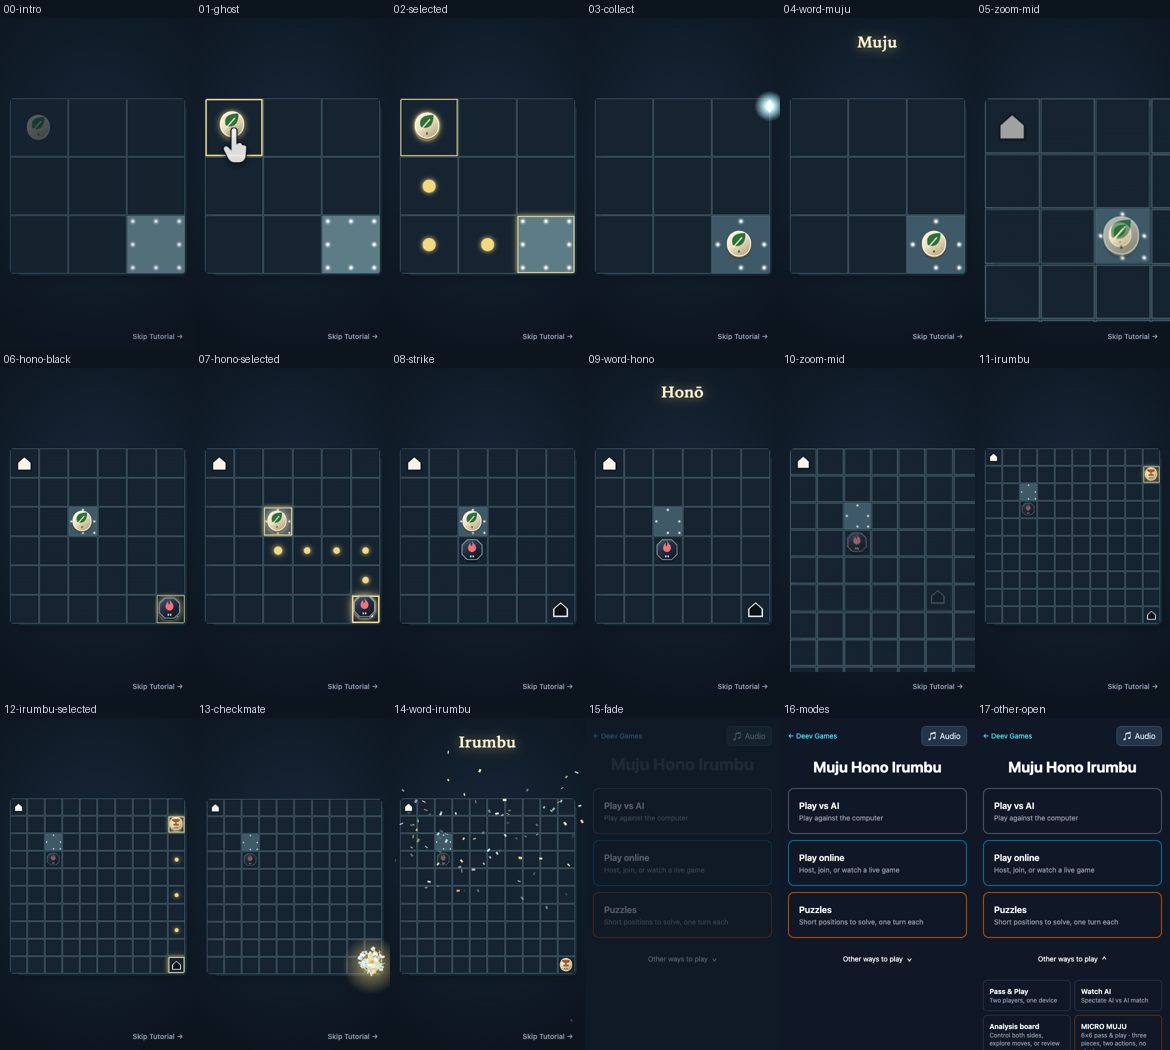
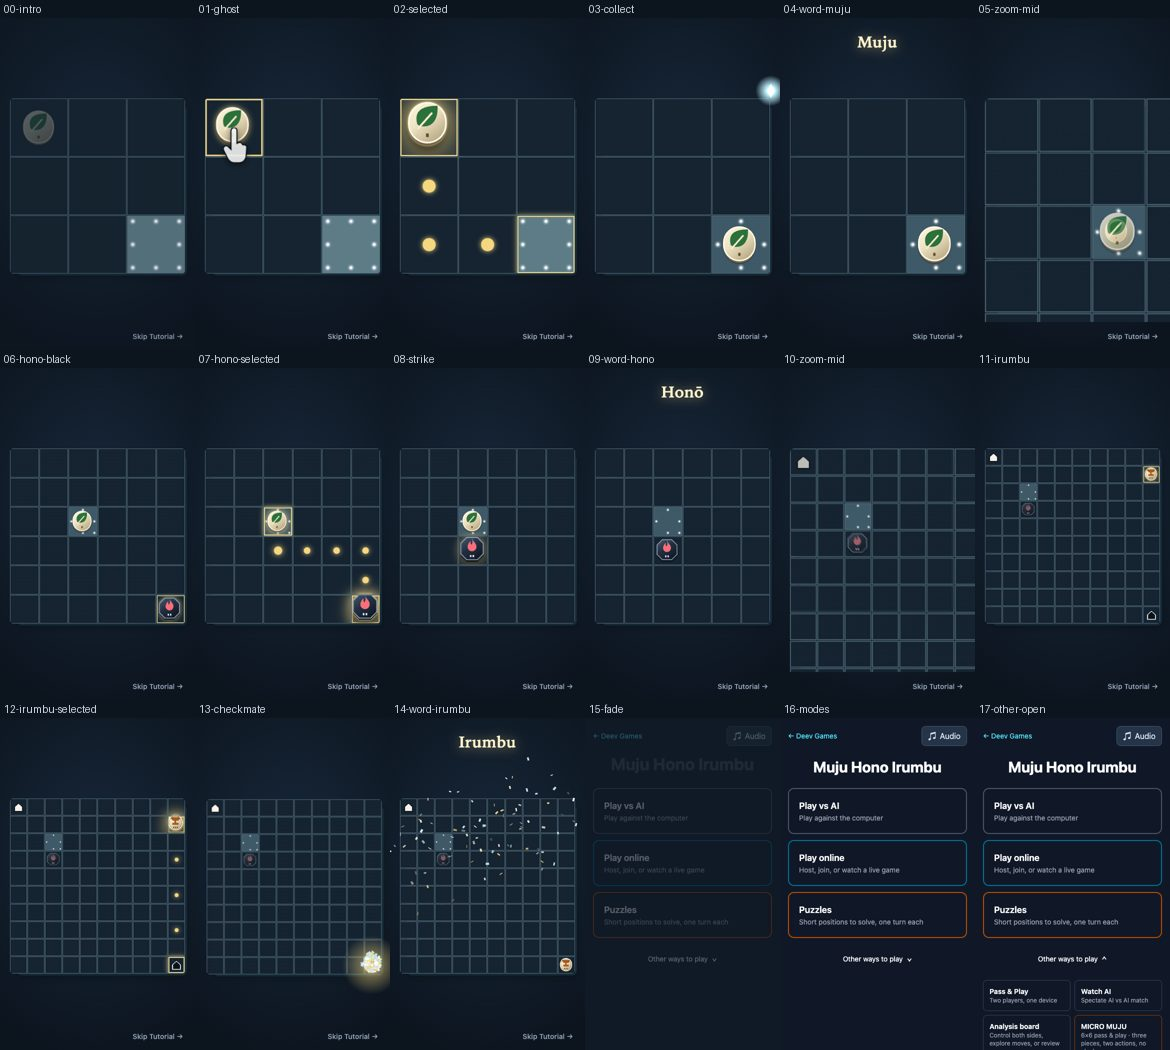
Tutorial: a picked piece lifts; the Muju fills its square on board 1
Before it is picked the active piece bobs in a pulsing ring; once picked it
lifts, grows and holds still over a steady ring and a warm wash, stays lifted
while it glides and settles when it lands. On the 3x3 the Muju is no longer
held to the 56 px piece cap.

diff --git a/muju/src/onboarding/PuzzleBoard.tsx b/muju/src/onboarding/PuzzleBoard.tsx
@@ -77,7 +77,12 @@ export function PuzzleBoard({ scenario, emit, play, paused, onSolved, onPhase }:
       selectedUnit={puzzle.phase === 'hint-target' && !puzzle.gliding ? puzzle.activeId : null}
       validMoves={puzzle.litPath} validAttacks={[]} validSpawns={[]}
       unitClassName={unit => inert.has(unit.id) ? 'tutorial-inert'
-        : unit.id === puzzle.activeId ? `tutorial-glider${hinting && !paused && !puzzle.gliding ? ' tutorial-active' : ''}`
+        : unit.id === puzzle.activeId ? ['tutorial-glider',
+          // Waiting to be picked: it bobs in a pulsing ring. Picked: it lifts and holds still,
+          // and stays lifted while it is carried; it settles when it lands.
+          !paused && puzzle.phase === 'hint-piece' ? 'tutorial-active' : '',
+          !paused && (puzzle.phase === 'hint-target' || puzzle.gliding) ? 'tutorial-lifted' : '',
+          puzzle.gliding ? 'is-gliding' : ''].filter(Boolean).join(' ')
         : puzzle.phase === 'hint-target' && same(unit.position, puzzle.goal) ? 'tutorial-prey' : undefined}
       cellClassName={pos => [
         puzzle.phase === 'hint-target' && same(pos, puzzle.goal) ? `tutorial-goal${puzzle.goalLit ? ' is-lit' : ''}` : '',

diff --git a/muju/src/onboarding/onboarding.css b/muju/src/onboarding/onboarding.css
@@ -33,6 +33,13 @@
 /* Guidance: the active piece breathes, the goal glows gold, dots light in sequence. */
 .unit-wrap.tutorial-active { animation: tutorial-bob 1.6s ease-in-out infinite; filter: drop-shadow(0 0 6px #f5d780cc); }
 .board-square:has(.tutorial-active) .board-cell { box-shadow: inset 0 0 0 2px #f5d780; animation: tutorial-ring 1.6s ease-in-out infinite; }
+.unit-wrap.tutorial-glider { transition: transform .22s ease-out, filter .22s ease-out; }
+.unit-wrap.tutorial-lifted { transform: translate(-4%, -10%) scale(1.18); filter: drop-shadow(0 9px 8px #000b) drop-shadow(0 0 12px #ffe08a); }
+.board-square:has(.tutorial-lifted:not(.is-gliding)) .board-cell { box-shadow: inset 0 0 0 3px #ffe08a, inset 0 0 0 999px #f5d78026, 0 0 20px #f5d78088; }
+
+/* Board 1 is the Muju's close-up: the piece fills its square instead of the usual 56 px cap. */
+.puzzle-muju .unit-wrap { width: 74%; height: 76%; }
+.puzzle-muju .unit-token { max-width: none; max-height: none; }
 .unit-wrap.tutorial-inert { opacity: .6; filter: saturate(.6); }
 .unit-wrap.tutorial-prey { animation: tutorial-prey 1.1s ease-in-out infinite; }
 .tutorial-goal .board-cell { box-shadow: inset 0 0 0 2px #f5d78088; }

diff --git a/muju/docs/changes/2026-10-02-new-player-onboarding.md b/muju/docs/changes/2026-10-02-new-player-onboarding.md
@@ -57,8 +57,16 @@ blows play lower. Everything follows the existing `muju:sfx:v1` toggle and level
   route (`glideMs`: 260 ms plus 140 ms per square, eased at both ends), however
   many actions it spends. The rules apply the moves at once; the slide is a
   transform animation that keeps its clock if the piece re-renders mid-slide.
-- Homes appear only on the 10×10 (hidden on the 3×3 and 6×6), as a large white or
-  black house pentagon in the centre of the square, drawn under any piece.
+- Before it is picked, the active piece bobs in a pulsing gold ring. Once picked it
+  lifts and grows slightly, holds still over a steady ring and a warm wash on its
+  square, stays lifted while it glides, and settles when it lands.
+- On the 3×3 the Muju fills its square instead of the usual 56 px piece cap.
+- Homes appear only on the 10×10 in the tutorial (hidden on the 3×3 and 6×6).
+
+**Home pentagons on every board.** Normal play, analysis, MICRO MUJU, the explorer
+and the tutorial mark each home with a large white or black house pentagon in the
+centre of the square, drawn under any piece (the old mark was a small ⌂ in the
+corner). The map painter keeps its corner mark.
 - `Onboarding` sequences intro → puzzle → name → zoom out → … → fade to the mode
   screen. The only visible words are a small **Skip Tutorial →** at the bottom right
   and each piece's name, which fades in at the top middle after its puzzle and fades
